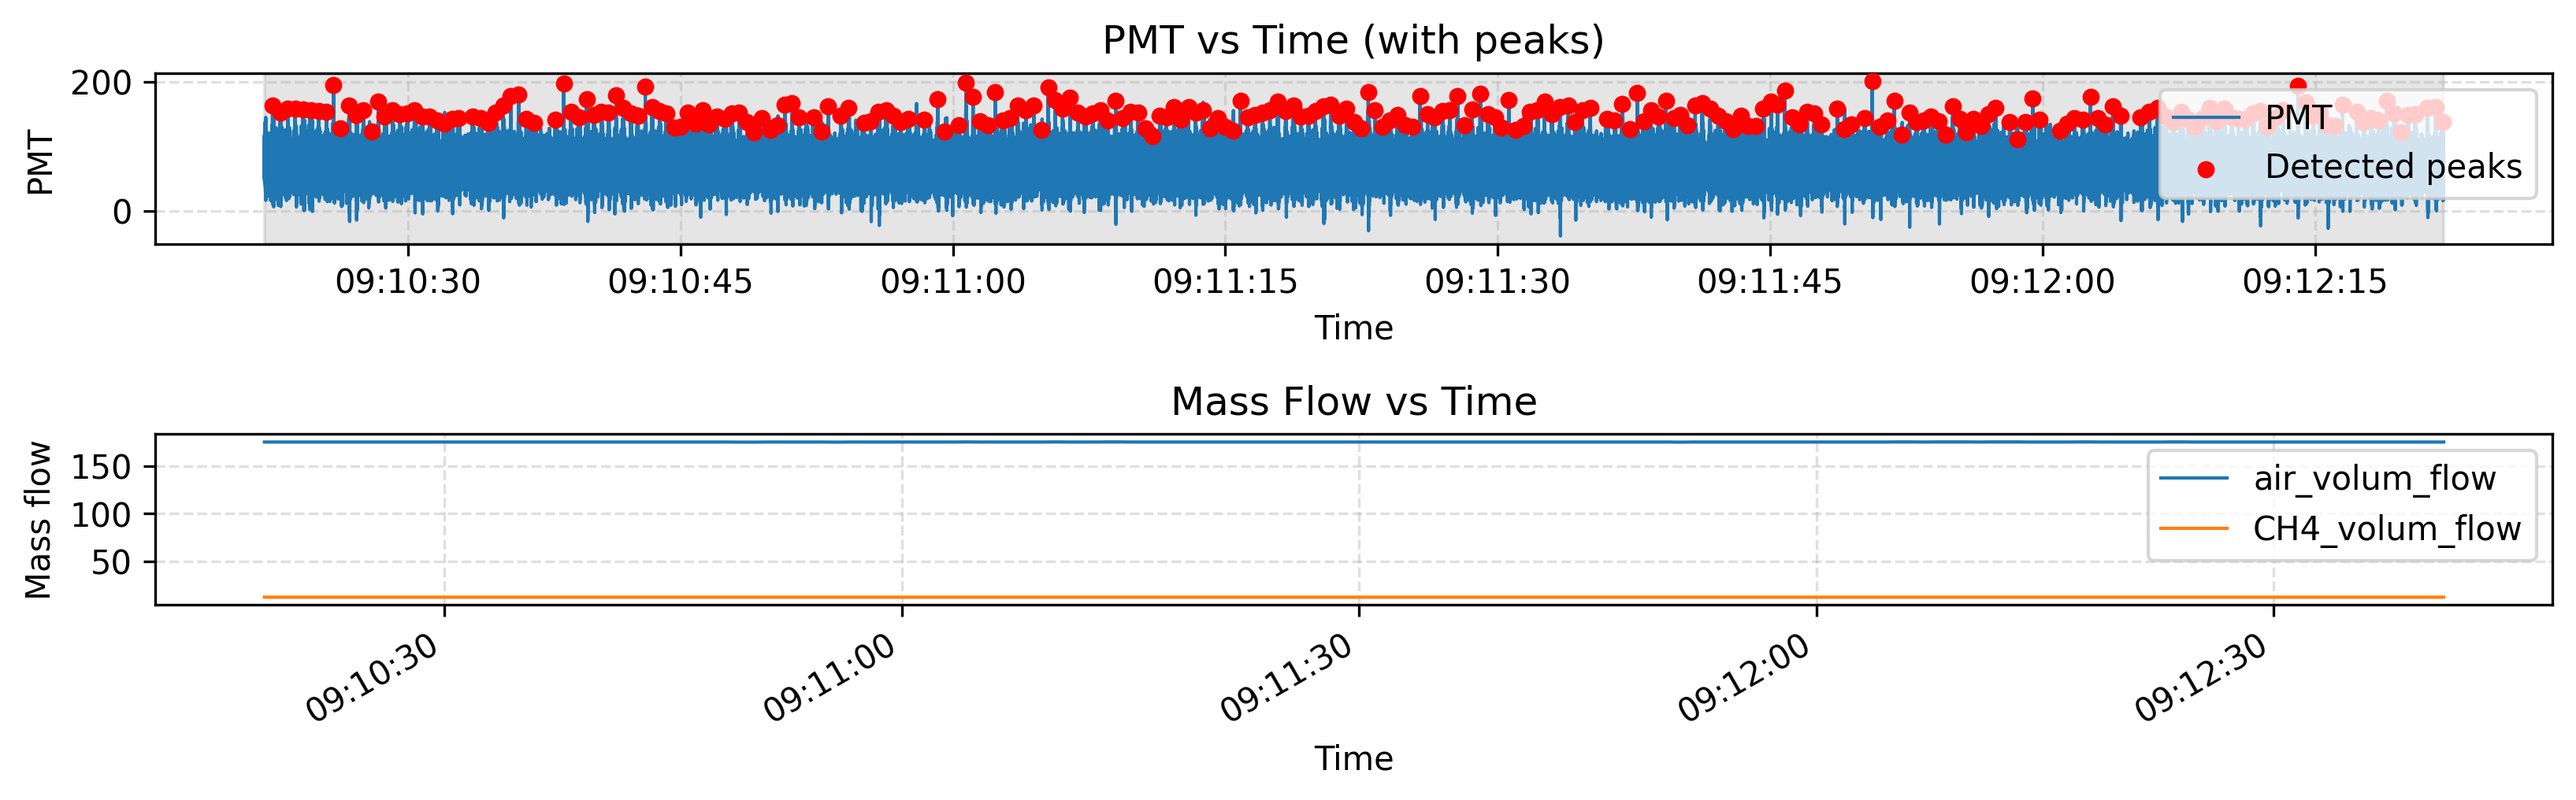
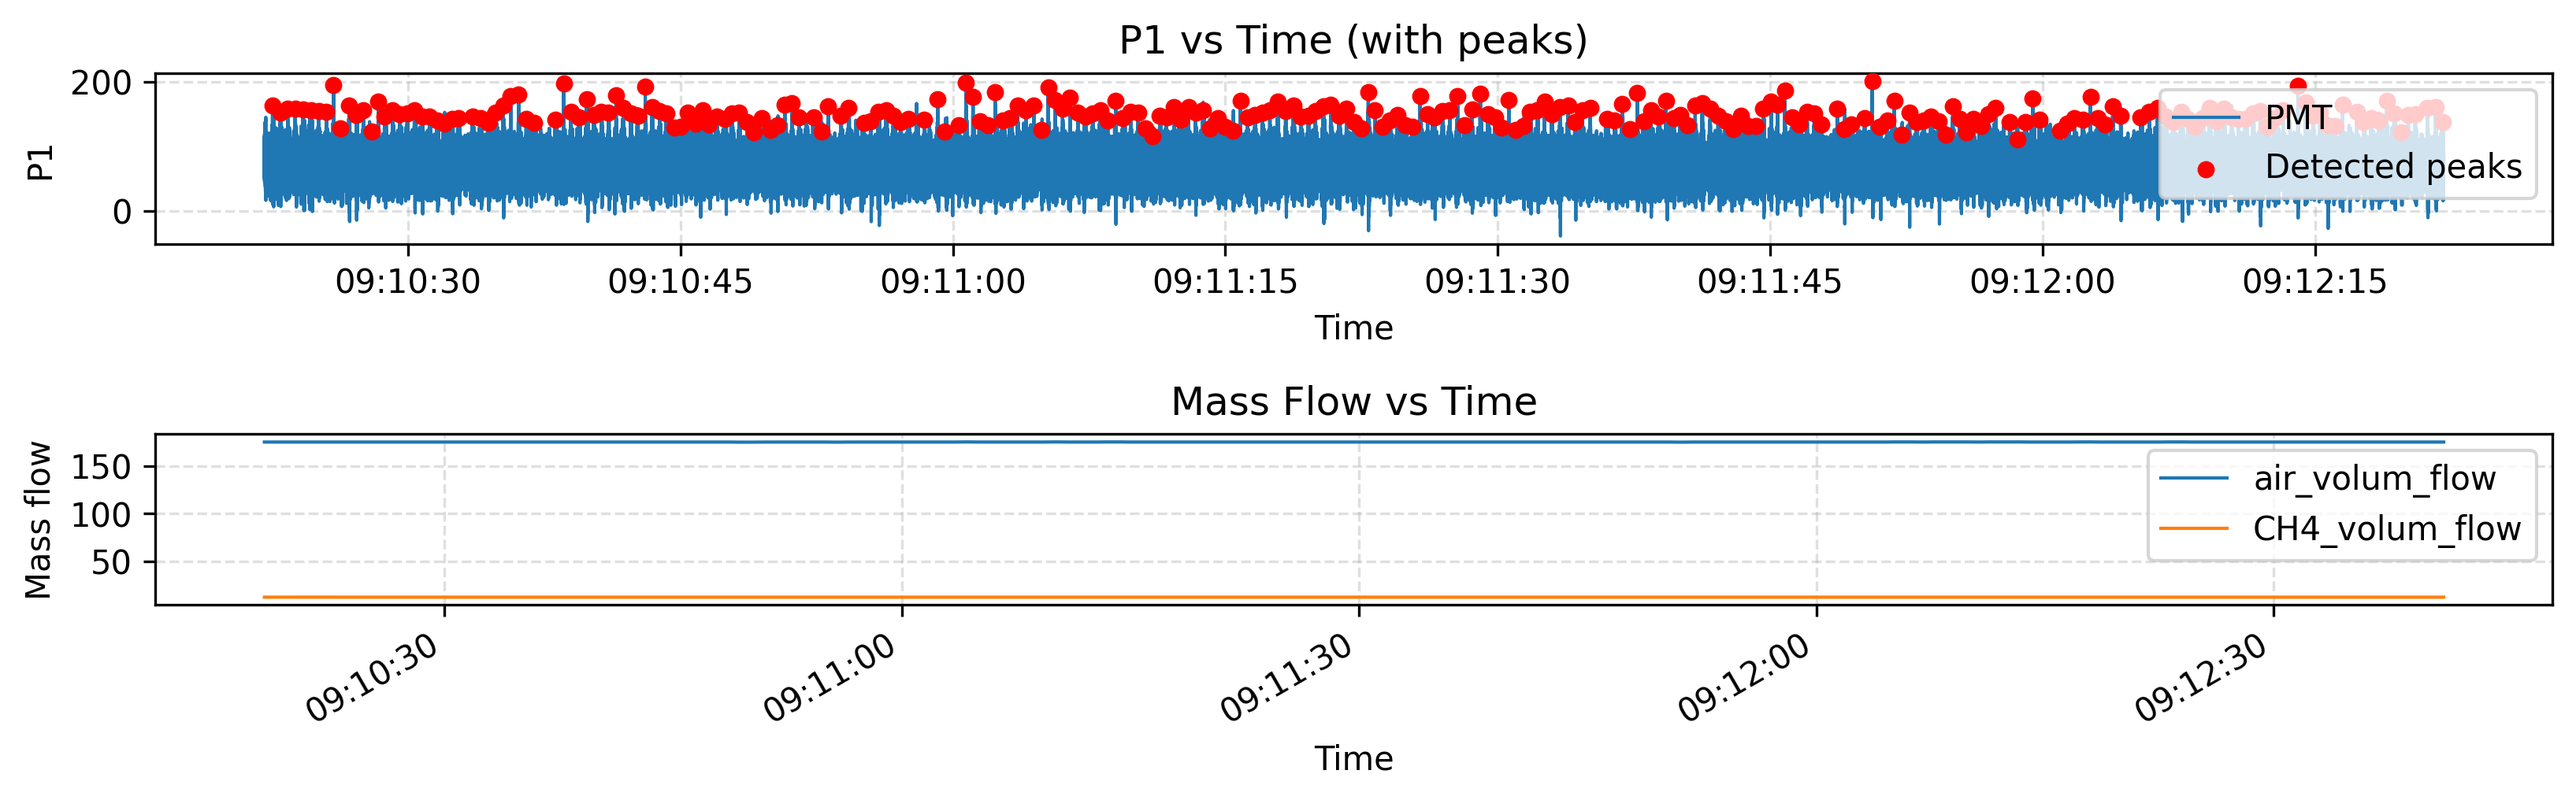
pressure fft

Changed region(s): [[0.0936, 0.0305, 0.967, 0.1831], [0.0936, 0.2441, 0.967, 0.3051], [0.0, 0.1831, 0.0312, 0.2441]]

diff --git a/read_data.py b/read_data.py
@@ -407,14 +407,14 @@ def plot_with_peaks(pmt_pressure_df: pd.DataFrame,peaks_df: pd.DataFrame, flow_d
     fig, [ax1,ax2] = plt.subplots(2, 1, figsize=(11, 3.5))
     ax1.plot(pmt_pressure_df['timestamps'], pmt_pressure_df['P1'], label='PMT', linewidth=1)
     ax1.scatter(peaks_df['timestamp'], peaks_df['height'], marker='o', color='red', s=18, zorder=3, label='Detected peaks')
-    ax1.axvspan(
-        pmt_pressure_df['timestamps'].iloc[window_start],
-        pmt_pressure_df['timestamps'].iloc[window_stop-1],
-        color='grey',
-        alpha=0.2)
-    ax1.set_title("PMT vs Time (with peaks)")
+    # ax1.axvspan(
+    #     pmt_pressure_df['timestamps'].iloc[window_start],
+    #     pmt_pressure_df['timestamps'].iloc[window_stop-1],
+    #     color='grey',
+    #     alpha=0.2)
+    ax1.set_title("P1 vs Time (with peaks)")
     ax1.set_xlabel("Time")
-    ax1.set_ylabel("PMT")
+    ax1.set_ylabel("P1")
     ax1.grid(True, which="both", linestyle="--", alpha=0.4)
     ax1.legend()
     plt.tight_layout()
@@ -626,8 +626,8 @@ def calculate_fft(
     ax1.plot(t, x, label='Raw (DC removed)')
     if filtered_signal is not None:
         ax1.plot(t, filtered_signal, label='Lowpass', linewidth=1.5)
-    ax1.set_title('PMT data')
-    ax1.set_ylabel('PMT signal')
+    ax1.set_title('P1 data')
+    ax1.set_ylabel('P1 signal')
     ax1.set_xlabel('Time')
     if filtered_signal is not None:
         ax1.legend(fontsize=8)
